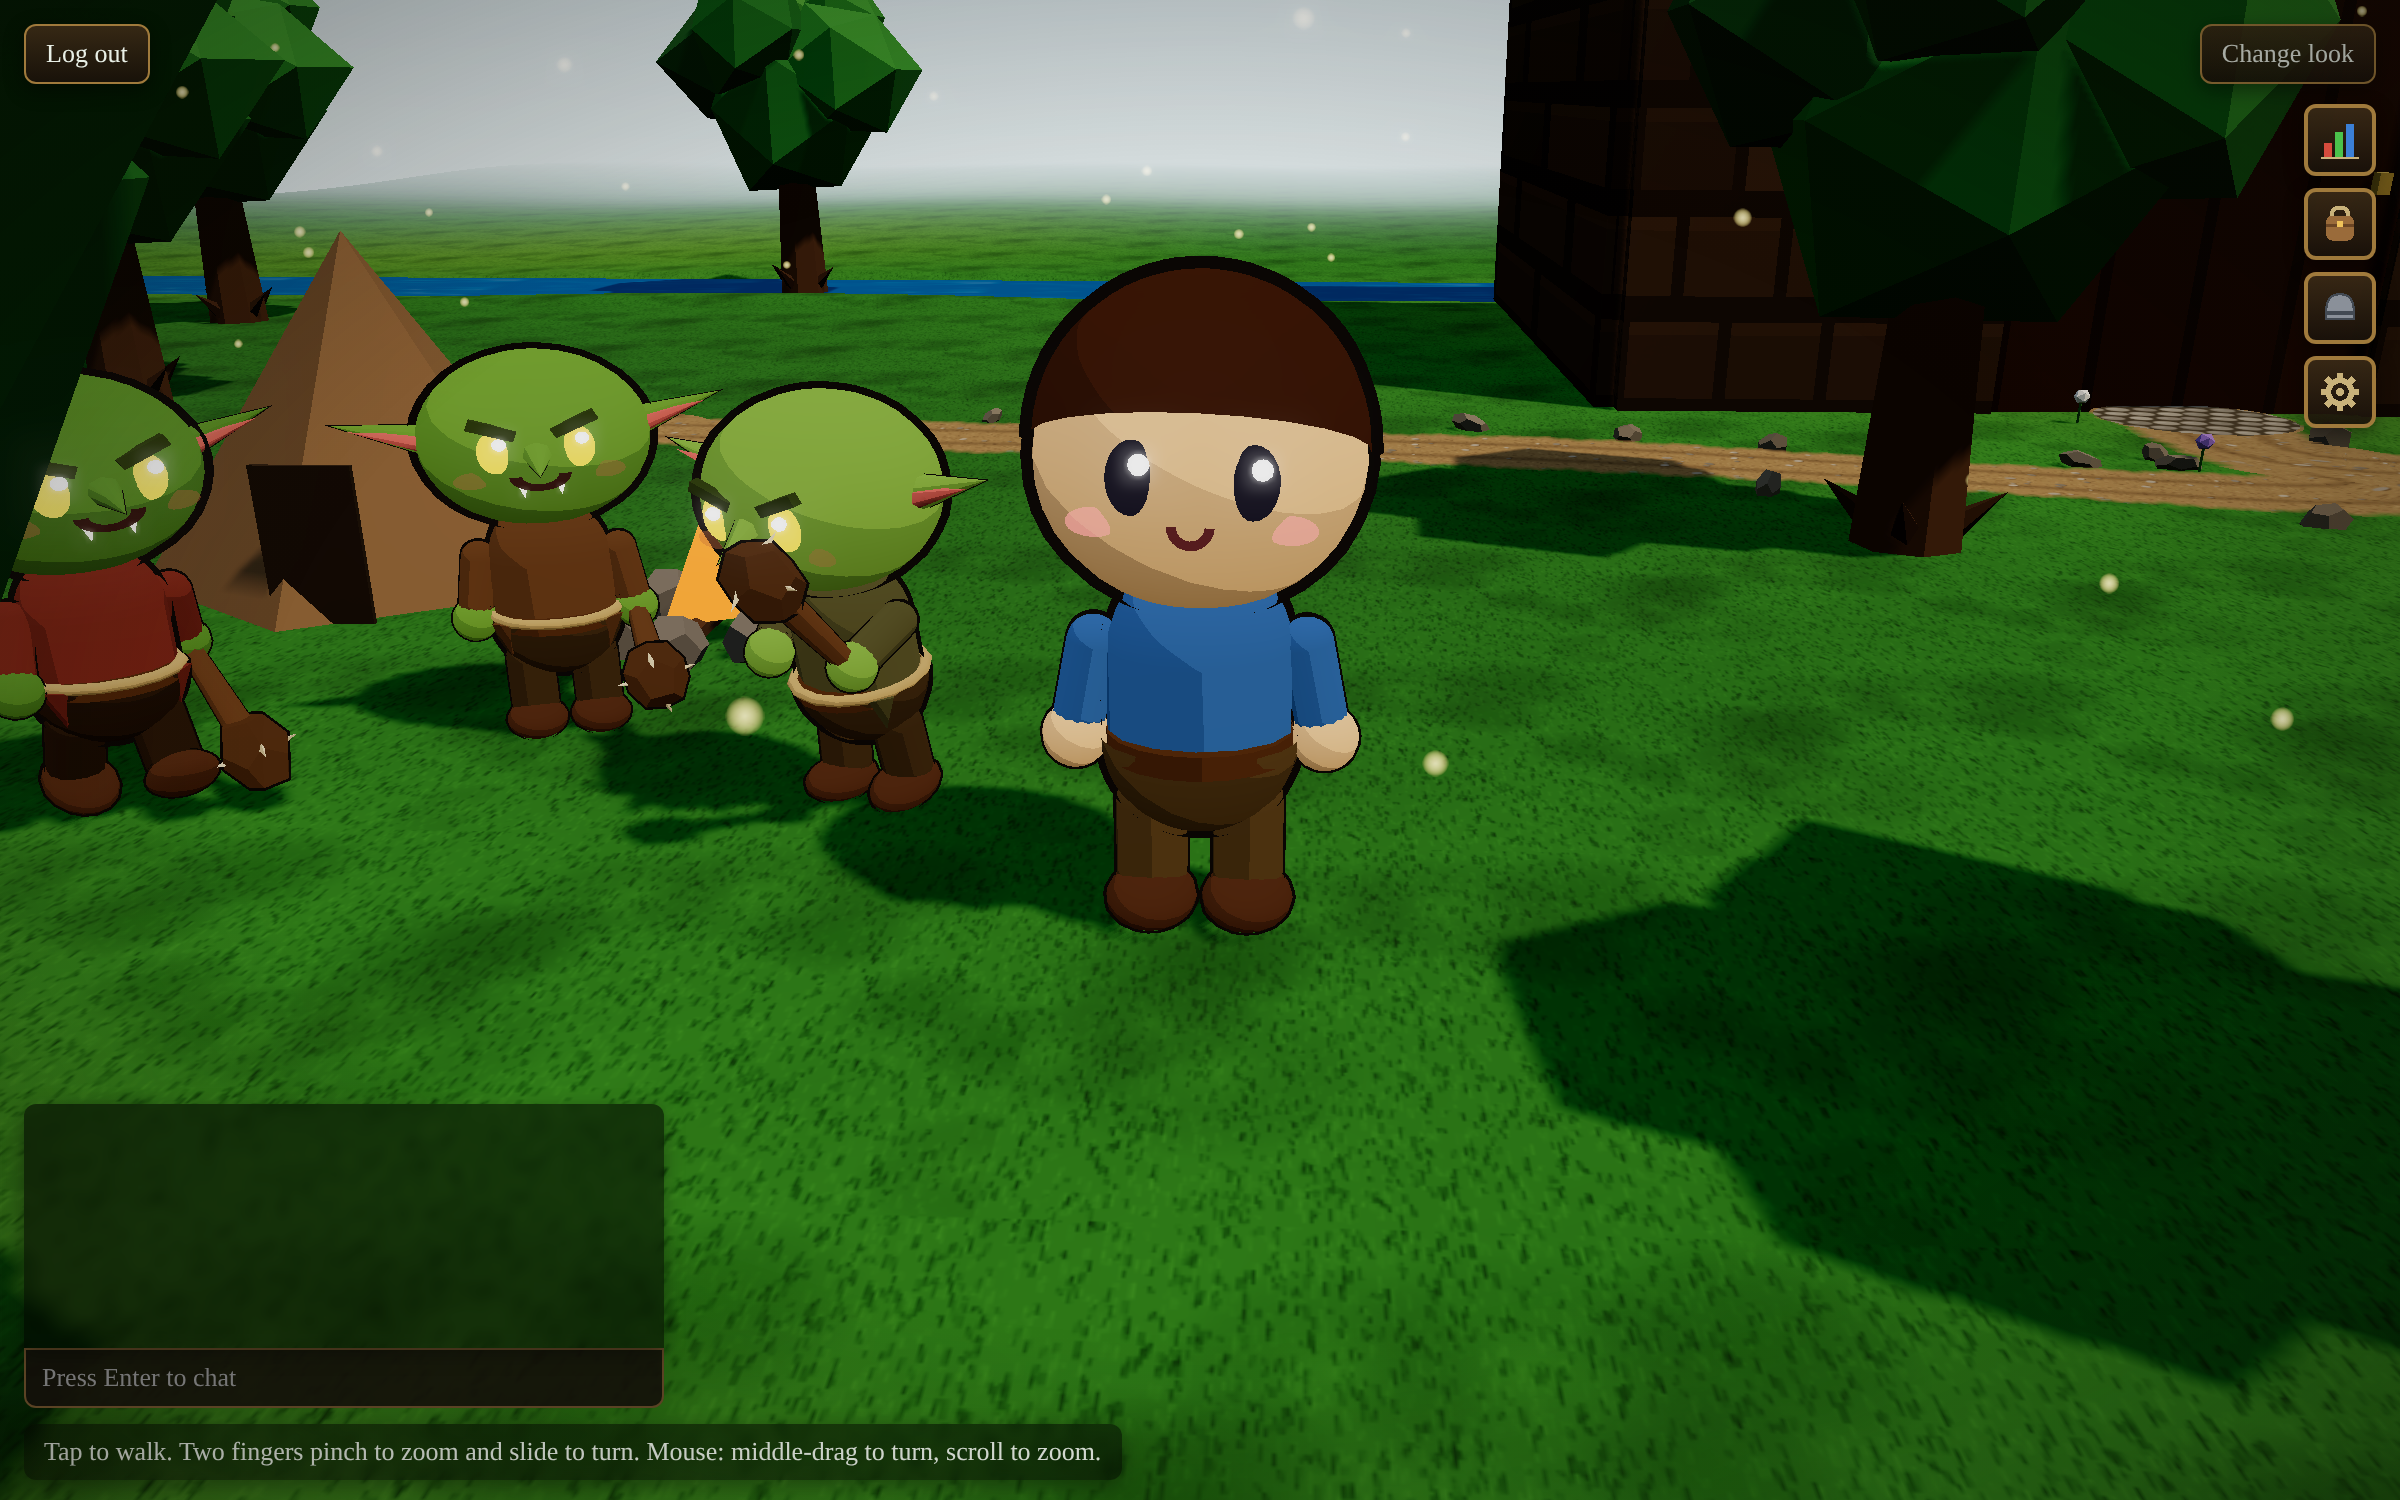
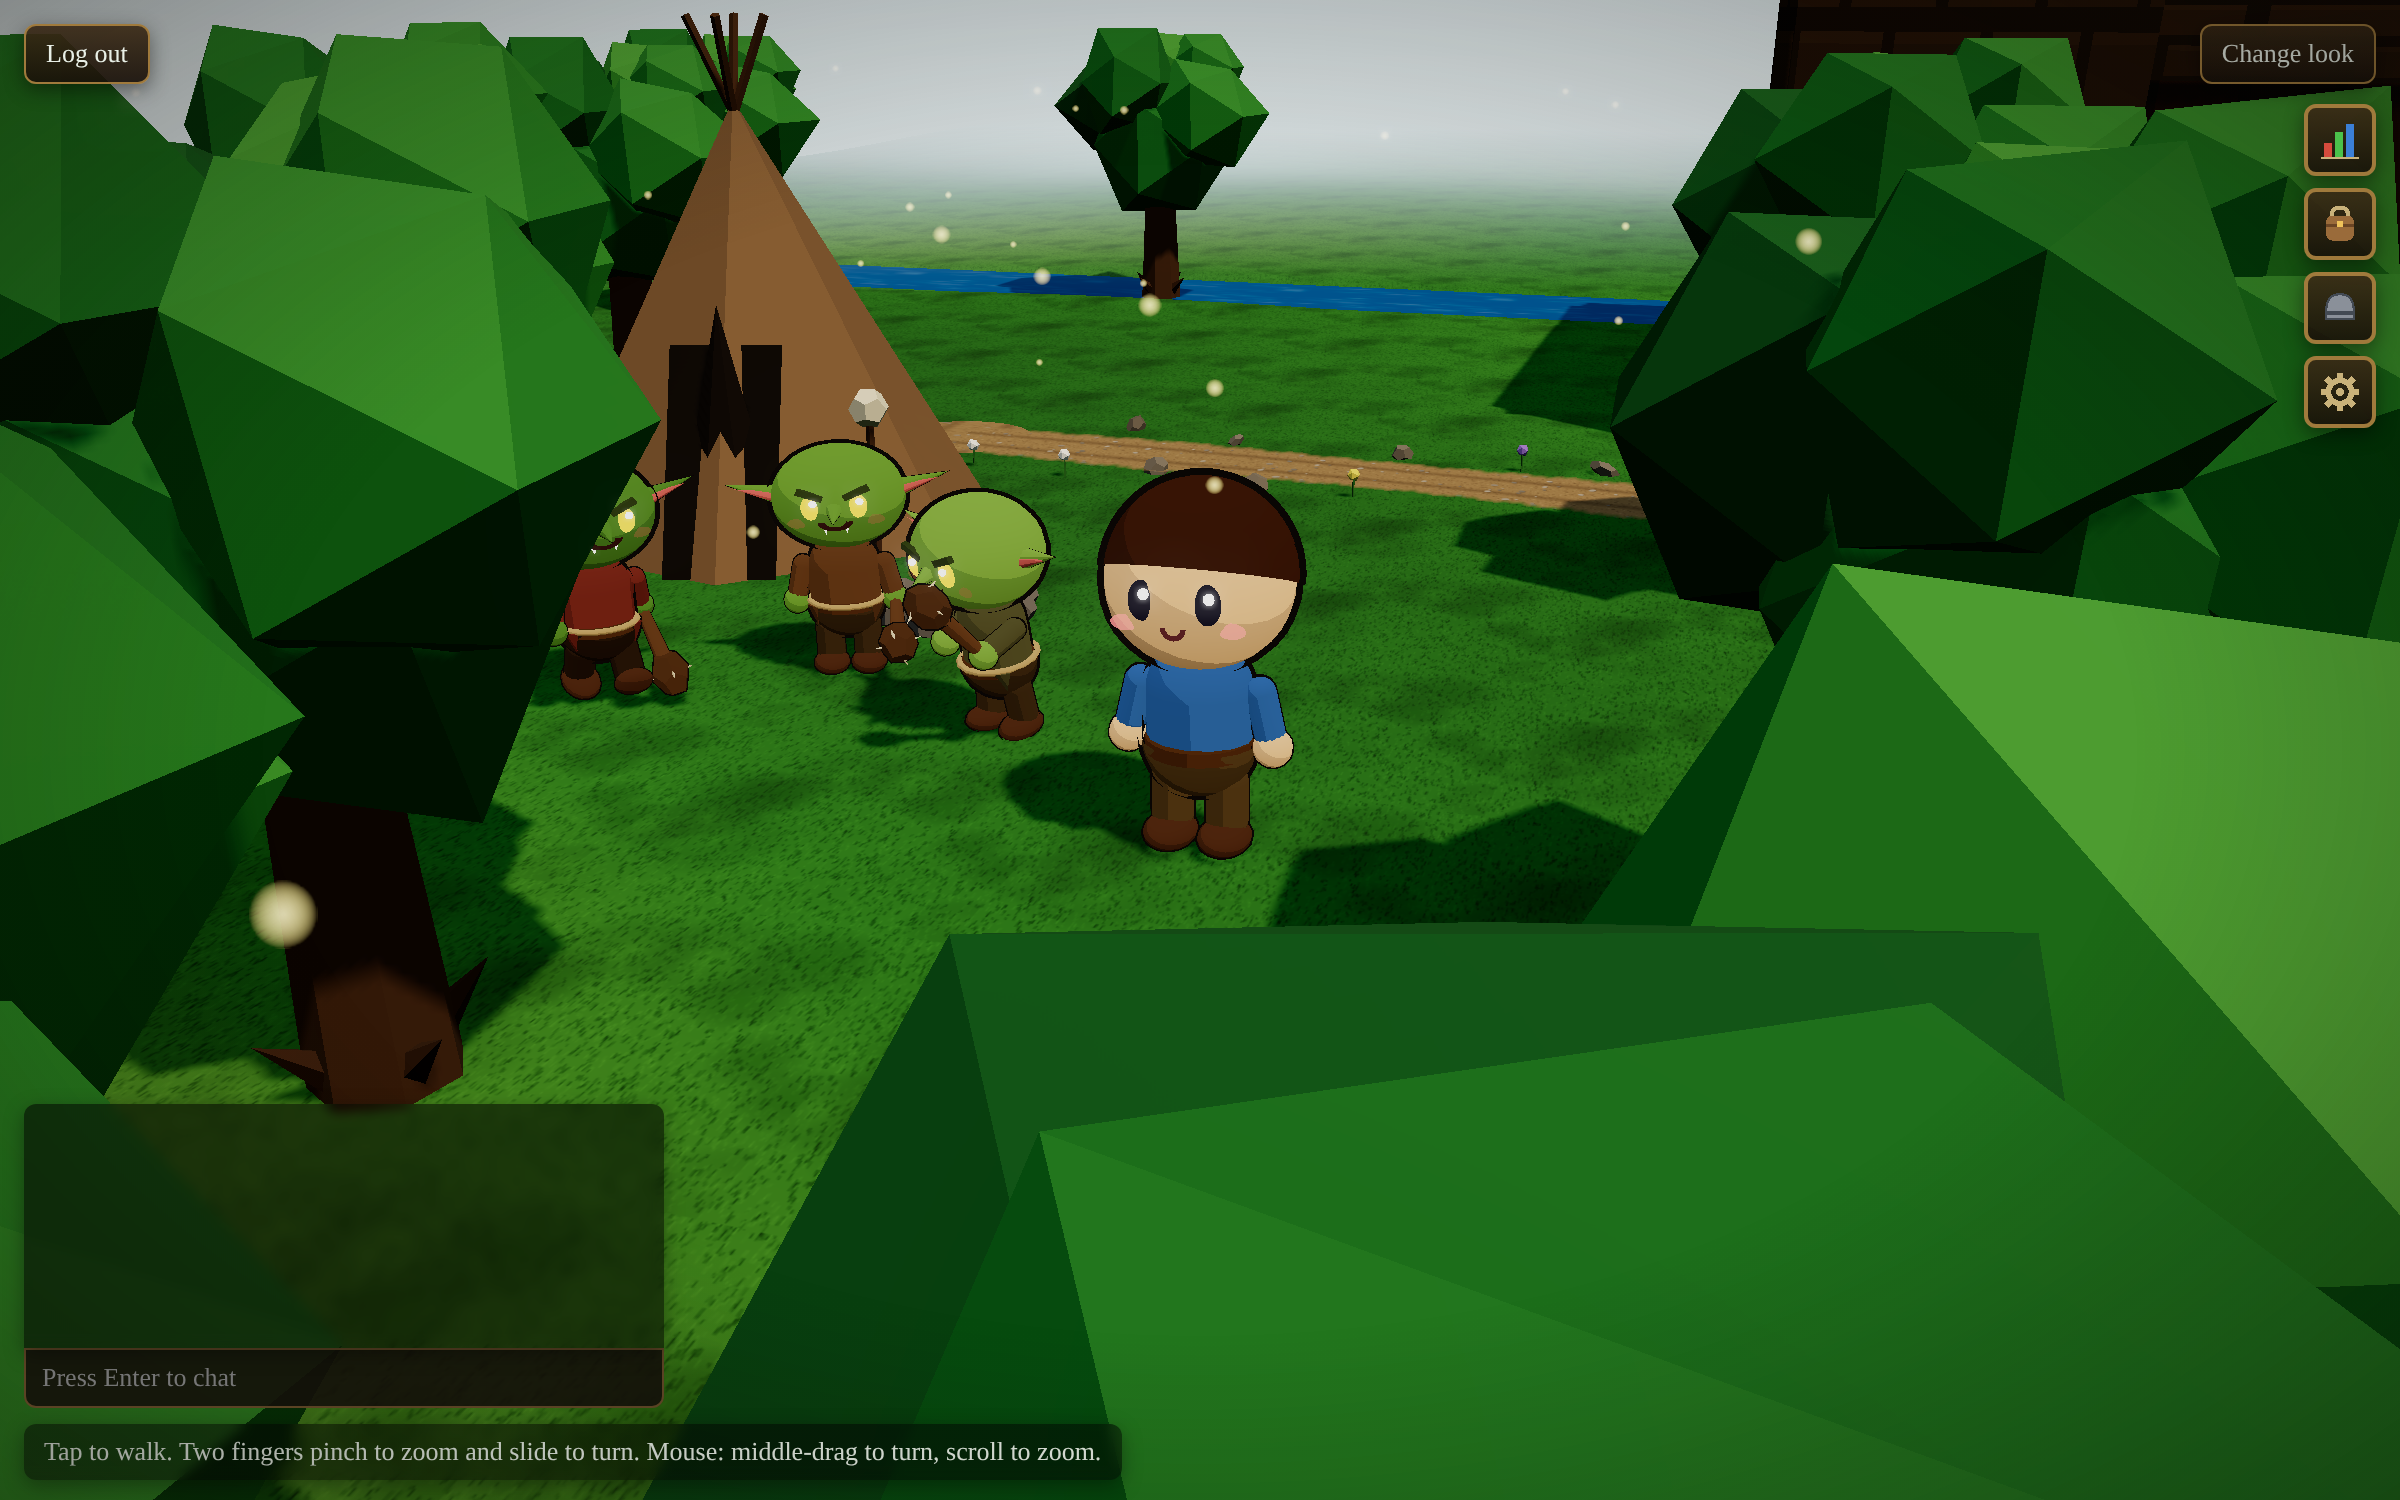
Goblin prototype: tent about twice a goblin's height
Claude-Session: https://claude.ai/code/session_01DSvFNMZ9YXfc6FEdXZa4xA

diff --git a/prototypes/goblin/goblin.js b/prototypes/goblin/goblin.js
@@ -42,8 +42,15 @@ for (let i = 0; i < 8; i++) { const st = new THREE.Mesh(new THREE.DodecahedronGe
 for (let i = 0; i < 3; i++) { const lg = new THREE.Mesh(new THREE.CylinderGeometry(0.1, 0.1, 1.2, 6), mat(0x5a3a1e)); lg.position.y = 0.15; lg.rotation.set(Math.PI / 2, i * 1.05, 0); fire.add(lg); }
 const flame = new THREE.Mesh(new THREE.ConeGeometry(0.35, 0.9, 6), new THREE.MeshBasicMaterial({ color: 0xff8a20 })); flame.position.y = 0.6; fire.add(flame);
 const flame2 = new THREE.Mesh(new THREE.ConeGeometry(0.2, 0.6, 6), new THREE.MeshBasicMaterial({ color: 0xffd040 })); flame2.position.y = 0.5; fire.add(flame2);
-const tent = new THREE.Mesh(new THREE.ConeGeometry(2.2, 3.2, 5), mat(0x8a6a48)); tent.position.set(W[0] - 3.5, 1.6, W[1] - 4.5); town.add(tent);
-const flap = new THREE.Mesh(new THREE.BoxGeometry(0.9, 1.4, 0.05), mat(0x3a2a1a)); flap.position.set(W[0] - 3.2, 0.7, W[1] - 2.6); town.add(flap);
+// a hide tent about twice a goblin's height, on crossed poles, with a doorway taller than they are
+const tentG = new THREE.Group(); tentG.position.set(W[0] - 4.5, 0, W[1] - 6); tentG.rotation.y = 0.3; town.add(tentG);
+const tent = new THREE.Mesh(new THREE.ConeGeometry(3.6, 6.2, 6), mat(0x8a6a48)); tent.position.y = 3.1; tentG.add(tent);
+for (let i = 0; i < 4; i++) { const pole = new THREE.Mesh(new THREE.CylinderGeometry(0.07, 0.07, 1.6, 5), mat(0x5a3a1e)); const a = i * Math.PI / 2; pole.position.set(Math.sin(a) * 0.25, 6.6, Math.cos(a) * 0.25); pole.rotation.set(Math.cos(a) * 0.4, 0, -Math.sin(a) * 0.4); tentG.add(pole); }   // poles crossing at the top
+const door = new THREE.Mesh(new THREE.ConeGeometry(1.0, 3.6, 3, 1, true, -Math.PI / 3, Math.PI * 2 / 3), mat(0x1e140c)); door.position.set(0, 1.8, 2.05); door.material.side = THREE.DoubleSide; tentG.add(door);
+const doorway = new THREE.Mesh(new THREE.PlaneGeometry(1.6, 3.4), mat(0x150e08)); doorway.position.set(0, 1.5, 2.55); doorway.rotation.x = -0.5; tentG.add(doorway);
+// a skull on a stake by the door, and a pile of bones
+const stake = new THREE.Mesh(new THREE.CylinderGeometry(0.06, 0.06, 2.2, 5), mat(0x5a3a1e)); stake.position.set(2.2, 1.1, 3.0); tentG.add(stake);
+const skull = new THREE.Mesh(new THREE.DodecahedronGeometry(0.28, 0), mat(0xe8e0c8)); skull.position.set(2.2, 2.35, 3.0); tentG.add(skull);
 // animate: one idles, one swings the club, one hops by the fire
 let t = 0;
 (function tick(){ t += 1 / 60;
